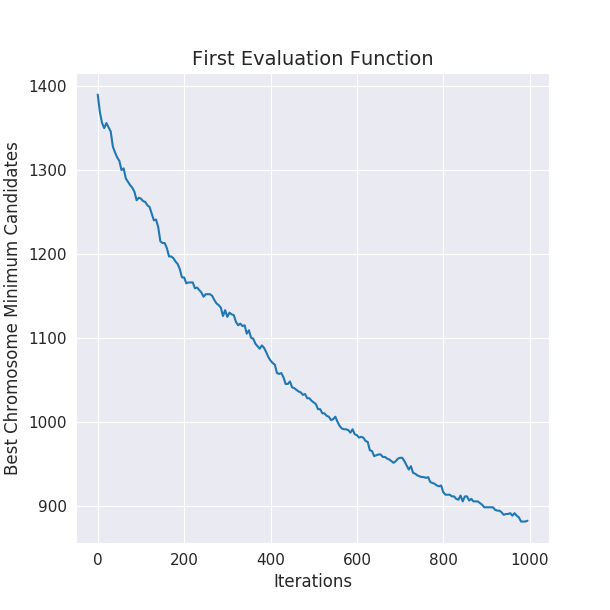
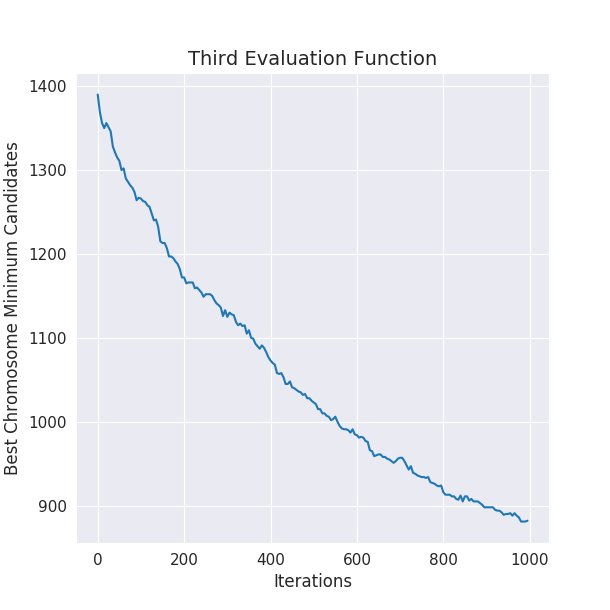
Updated plots function

Changed region(s): [[0.3115, 0.0623, 0.7164, 0.1246]]

diff --git a/results/create_plots.py b/results/create_plots.py
@@ -31,9 +31,22 @@ def filter_data(value):
         return True
 
 
-def create_plot(type_eval_chromosome):
+def create_plot():
     min_vals = []
     are_mins_covered = []
+
+    with open(os.path.join(LOGS_PATH, log_name[:-4] + "_parameters.txt"), "r") as fd:
+        log_parameters = fd.read(2048)
+
+    type_eval_chromosome = ''
+    if 'eval_chromosome_ep_1' in log_parameters:
+        type_eval_chromosome = "First Evaluation Function"
+    elif 'eval_chromosome_ep_2' in log_parameters:
+        type_eval_chromosome = "Second Evaluation Function"
+    elif 'eval_chromosome_ep_4' in log_parameters:
+        type_eval_chromosome = "Third Evaluation Function"
+    elif 'eval_chromosome_rep_1' in log_parameters:
+        type_eval_chromosome = "Reparation Evaluation Function"
 
     with open(os.path.join(LOGS_PATH, log_name), "r") as fd:
         current_generation = fd.readline().strip()
@@ -77,6 +90,4 @@ def create_plot(type_eval_chromosome):
 
 
 # Create plot for min_val at every generation in specified log file
-create_plot(type_eval_chromosome="First Evaluation Function")
-#create_plot(type_eval_chromosome="Second Evaluation Function")
-#create_plot(type_eval_chromosome="Third Evaluation Function")
+create_plot()
